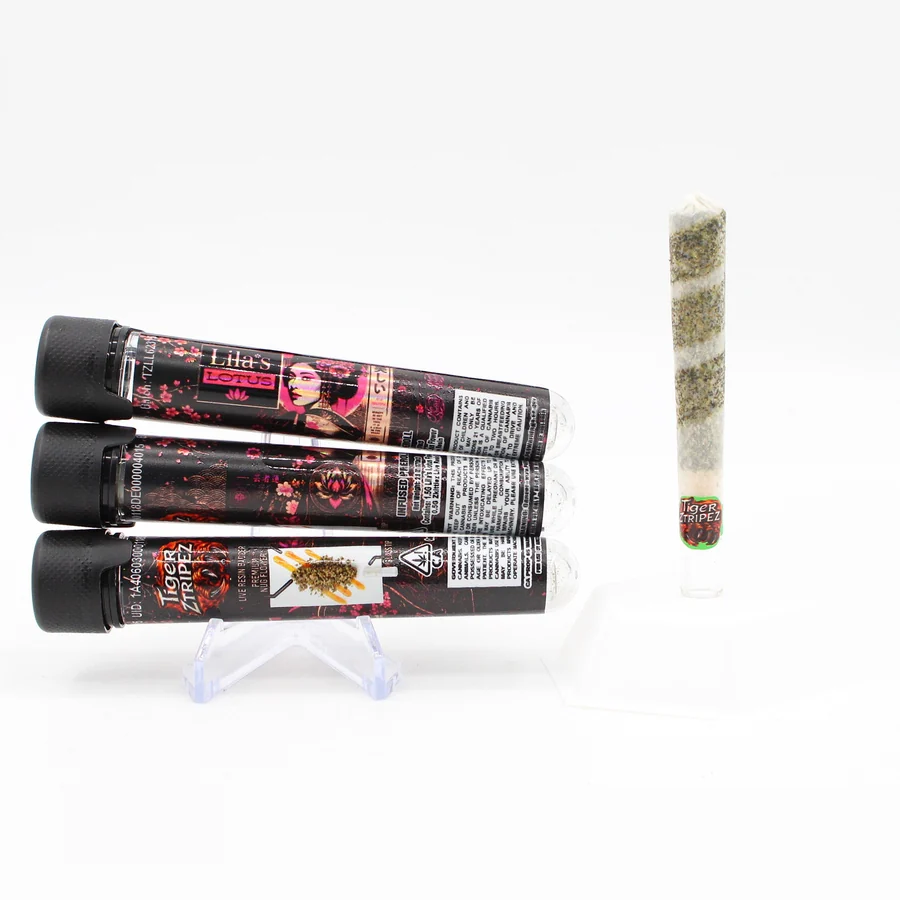
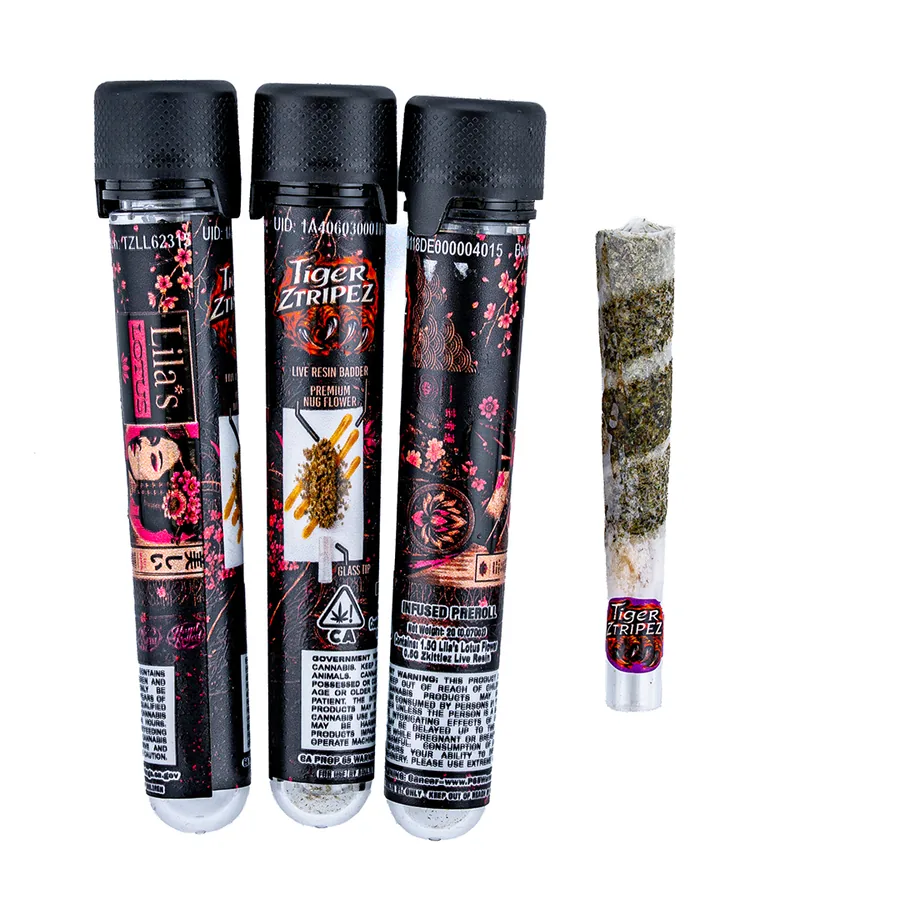
Collection: new product photos, real Flower lineup, more pre-rolls
- Flower is real now: six 7g strains (Blueberry Chews, Candy Paint OG,
  Green Dragon Kush, Rosewater Runtz, Strawberry Funnel Cakez, Zunami)
  with type and lineage from the jar labels. Card shows the open jar,
  the sheet shows the jars. Flower moves to the first category.
- Full-size photos replace the small ones for 5 Tiger Ztripez, 2 Minis
  and 4 vapes; their "Images coming soon" is gone.
- New: Sour Diesel Tiger Ztripez; Sour Diesel, Tahoe OG, Zkittlez Minis.
- Vape names match the boxes: Jelly Zonutz, Strawberry Funnel Cakez.
- products.js ?v=25.

diff --git a/assets/js/products.js b/assets/js/products.js
@@ -2,10 +2,9 @@
  * Reserved product list. Edit this file to add, remove or change a product;
  * the Collection page and the Home page tiles both read from it.
  *
- * PLACEHOLDER: only the Flower entry is a stand-in until the real strains
- * are in. Everything else is real. A category with no products is hidden.
+ * Every product here is real. A category with no products is hidden.
  *
- * Flower is listed by strain (one entry per strain, sold in 3.5g jars).
+ * Flower is listed by strain (one entry per strain, sold in 7g jars).
  * Every other category is listed by product.
  *
  * Categories, in the order they show:
@@ -39,13 +38,26 @@
  *   soon:  optional: true shows a "Coming soon" tag
  */
 window.RESERVED_CATEGORIES = [
+  { id: "flower",       name: "Flower",       color: "#1F7A4D", unit: "strain" },
   { id: "pre-rolls",    name: "Pre-Rolls",    color: "#B3203A" },
   { id: "concentrates", name: "Concentrates", color: "#D99A1E" },
-  { id: "vapes",        name: "Vapes",        color: "#1E5FD9" },
-  { id: "flower",       name: "Flower",       color: "#1F7A4D", unit: "strain" } // last while it's a placeholder
+  { id: "vapes",        name: "Vapes",        color: "#1E5FD9" }
 ];
 
 window.RESERVED_PRODUCTS = [
+  // Flower: 7g jars. Card shows the open jar, the sheet shows the jars.
+  { id: "blueberry-chews", cat: "flower", name: "Blueberry Chews", size: "7g", type: "Indica", lineage: "Blueberry x Hi-Chew",
+    img: "assets/img/flower/blueberry-chews.webp", sheetImg: "assets/img/flower/blueberry-chews-jars.webp" },
+  { id: "candy-paint-og", cat: "flower", name: "Candy Paint OG", size: "7g", type: "Hybrid", lineage: "Candy Fumez x Permanent Marker",
+    img: "assets/img/flower/candy-paint-og.webp", sheetImg: "assets/img/flower/candy-paint-og-jars.webp" },
+  { id: "green-dragon-kush", cat: "flower", name: "Green Dragon Kush", size: "7g", type: "Indica", lineage: "Green Crack x Candy Kush",
+    img: "assets/img/flower/green-dragon-kush.webp", sheetImg: "assets/img/flower/green-dragon-kush-jars.webp" },
+  { id: "rosewater-runtz", cat: "flower", name: "Rosewater Runtz", size: "7g", type: "Indica", lineage: "White Runtz x Gelato 41",
+    img: "assets/img/flower/rosewater-runtz.webp", sheetImg: "assets/img/flower/rosewater-runtz-jars.webp" },
+  { id: "strawberry-funnel-cakez", cat: "flower", name: "Strawberry Funnel Cakez", size: "7g", type: "Indica", lineage: "Chronic x White Widow x Cheese",
+    img: "assets/img/flower/strawberry-funnel-cakez.webp", sheetImg: "assets/img/flower/strawberry-funnel-cakez-jars.webp" },
+  { id: "zunami", cat: "flower", name: "Zunami", size: "7g", type: "Hybrid", lineage: "Zkittlez x Gelato 41 x Sherb BX1",
+    img: "assets/img/flower/zunami.webp", sheetImg: "assets/img/flower/zunami-jars.webp" },
   // Pre-rolls: Tiger Ztripez (infused) and Minis (flower only)
   { id: "lilas-lotus-tiger-ztripez", cat: "pre-rolls", line: "Tiger Ztripez", name: "Lila's Lotus", size: "Single", desc: "1.5g flower + 0.5g live resin concentrate in three stripes",
     img: "assets/img/prerolls/lilas-lotus-tiger-ztripez.webp" },
@@ -53,23 +65,25 @@ window.RESERVED_PRODUCTS = [
     img: "assets/img/prerolls/hardcore-og-tiger-ztripez.webp",
     sheetSoon: true },
   { id: "matcha-tiger-ztripez", cat: "pre-rolls", line: "Tiger Ztripez", name: "Matcha", size: "Single", desc: "1.5g flower + 0.5g live resin concentrate in three stripes",
-    img: "assets/img/prerolls/matcha-tiger-ztripez.webp",
-    sheetSoon: true },
+    img: "assets/img/prerolls/matcha-tiger-ztripez.webp" },
   { id: "rainbow-z-tiger-ztripez", cat: "pre-rolls", line: "Tiger Ztripez", name: "Rainbow Z", size: "Single", desc: "1.5g flower + 0.5g live resin concentrate in three stripes",
-    img: "assets/img/prerolls/rainbow-z-tiger-ztripez.webp",
-    sheetSoon: true },
+    img: "assets/img/prerolls/rainbow-z-tiger-ztripez.webp" },
+  { id: "sour-diesel-tiger-ztripez", cat: "pre-rolls", line: "Tiger Ztripez", name: "Sour Diesel", size: "Single", desc: "1.5g flower + 0.5g live resin concentrate in three stripes",
+    img: "assets/img/prerolls/sour-diesel-tiger-ztripez.webp" },
   { id: "toad-venom-tiger-ztripez", cat: "pre-rolls", line: "Tiger Ztripez", name: "Toad Venom", size: "Single", desc: "1.5g flower + 0.5g live resin concentrate in three stripes",
-    img: "assets/img/prerolls/toad-venom-tiger-ztripez.webp",
-    sheetSoon: true },
+    img: "assets/img/prerolls/toad-venom-tiger-ztripez.webp" },
   { id: "zandia-tiger-ztripez", cat: "pre-rolls", line: "Tiger Ztripez", name: "Zandia", size: "Single", desc: "1.5g flower + 0.5g live resin concentrate in three stripes",
-    img: "assets/img/prerolls/zandia-tiger-ztripez.webp",
-    sheetSoon: true },
+    img: "assets/img/prerolls/zandia-tiger-ztripez.webp" },
   { id: "biscotti-minis", cat: "pre-rolls", line: "Minis", name: "Biscotti", size: "Pack of 6", desc: "Six flower pre-rolls",
-    img: "assets/img/prerolls/biscotti-minis.webp",
-    sheetSoon: true },
+    img: "assets/img/prerolls/biscotti-minis.webp" },
   { id: "bubblegum-gelato-minis", cat: "pre-rolls", line: "Minis", name: "Bubblegum Gelato", size: "Pack of 6", desc: "Six flower pre-rolls",
-    img: "assets/img/prerolls/bubblegum-gelato-minis.webp",
-    sheetSoon: true },
+    img: "assets/img/prerolls/bubblegum-gelato-minis.webp" },
+  { id: "sour-diesel-minis", cat: "pre-rolls", line: "Minis", name: "Sour Diesel", size: "Pack of 6", desc: "Six flower pre-rolls",
+    img: "assets/img/prerolls/sour-diesel-minis.webp" },
+  { id: "tahoe-og-minis", cat: "pre-rolls", line: "Minis", name: "Tahoe OG", size: "Pack of 6", desc: "Six flower pre-rolls",
+    img: "assets/img/prerolls/tahoe-og-minis.webp" },
+  { id: "zkittlez-minis", cat: "pre-rolls", line: "Minis", name: "Zkittlez", size: "Pack of 6", desc: "Six flower pre-rolls",
+    img: "assets/img/prerolls/zkittlez-minis.webp" },
   // Concentrates
   { id: "cherry-bombs-badder", cat: "concentrates", line: "Live Resin Badder", name: "Cherry Bombs", size: "1g", type: "Hybrid", desc: "Live resin badder from fresh-frozen flower",
     img: "assets/img/concentrates/cherry-bombs-badder.webp" },
@@ -79,8 +93,7 @@ window.RESERVED_PRODUCTS = [
     img: "assets/img/concentrates/tahiti-lime-badder.webp" },
   // Vapes
   { id: "blueberry-chews-vape", cat: "vapes", line: "Live Resin Vape", name: "Blueberry Chews", size: "1g",
-    img: "assets/img/vapes/blueberry-chews-vape.webp",
-    sheetSoon: true },
+    img: "assets/img/vapes/blueberry-chews-vape.webp" },
   { id: "bubblegum-gelato-vape", cat: "vapes", line: "Live Resin Vape", name: "Bubblegum Gelato", size: "1g",
     img: "assets/img/vapes/bubblegum-gelato-vape.webp",
     sheetSoon: true },
@@ -90,16 +103,10 @@ window.RESERVED_PRODUCTS = [
   { id: "green-dragon-kush-vape", cat: "vapes", line: "Live Resin Vape", name: "Green Dragon Kush", size: "1g",
     img: "assets/img/vapes/green-dragon-kush-vape.webp",
     sheetSoon: true },
-  { id: "jelly-zoughnutz-vape", cat: "vapes", line: "Live Resin Vape", name: "Jelly Zoughnutz", size: "1g",
-    img: "assets/img/vapes/jelly-zoughnutz-vape.webp",
-    sheetSoon: true },
+  { id: "jelly-zoughnutz-vape", cat: "vapes", line: "Live Resin Vape", name: "Jelly Zonutz", size: "1g",
+    img: "assets/img/vapes/jelly-zoughnutz-vape.webp" },
   { id: "rosewater-runtz-vape", cat: "vapes", line: "Live Resin Vape", name: "Rosewater Runtz", size: "1g",
-    img: "assets/img/vapes/rosewater-runtz-vape.webp",
-    sheetSoon: true },
-  { id: "strawberry-funnel-cake-vape", cat: "vapes", line: "Live Resin Vape", name: "Strawberry Funnel Cake", size: "1g",
-    img: "assets/img/vapes/strawberry-funnel-cake-vape.webp",
-    sheetSoon: true },
-  // Flower (PLACEHOLDER): swap for one entry per strain when they're ready
-  { id: "flower-coming-soon", cat: "flower", name: "Flower", size: "3.5g", desc: "Strains coming soon", soon: true,
-    img: "assets/img/gen/stamp.webp", cutout: true }
+    img: "assets/img/vapes/rosewater-runtz-vape.webp" },
+  { id: "strawberry-funnel-cake-vape", cat: "vapes", line: "Live Resin Vape", name: "Strawberry Funnel Cakez", size: "1g",
+    img: "assets/img/vapes/strawberry-funnel-cake-vape.webp" }
 ];

diff --git a/index.html b/index.html
@@ -256,7 +256,7 @@
   </dialog>
 
   <script src="assets/js/stores.js?v=36"></script>
-  <script src="assets/js/products.js?v=24"></script>
+  <script src="assets/js/products.js?v=25"></script>
   <script src="assets/js/site.js?v=33"></script>
   <script src="assets/js/home.js?v=19"></script>
   <script src="assets/js/genetics.js?v=14"></script>

diff --git a/collection.html b/collection.html
@@ -144,7 +144,7 @@
     <div id="sheet-body"></div>
   </dialog>
 
-  <script src="assets/js/products.js?v=24"></script>
+  <script src="assets/js/products.js?v=25"></script>
   <script src="assets/js/site.js?v=33"></script>
   <script src="assets/js/sheet.js?v=2"></script>
   <script src="assets/js/collection.js?v=17"></script>

diff --git a/tiger-ztripez.html b/tiger-ztripez.html
@@ -228,7 +228,7 @@
     <div id="sheet-body"></div>
   </dialog>
 
-  <script src="assets/js/products.js?v=24"></script>
+  <script src="assets/js/products.js?v=25"></script>
   <script src="assets/js/site.js?v=33"></script>
   <script src="assets/js/sheet.js?v=2"></script>
   <script>ReservedSheet.openFromHash();</script>
